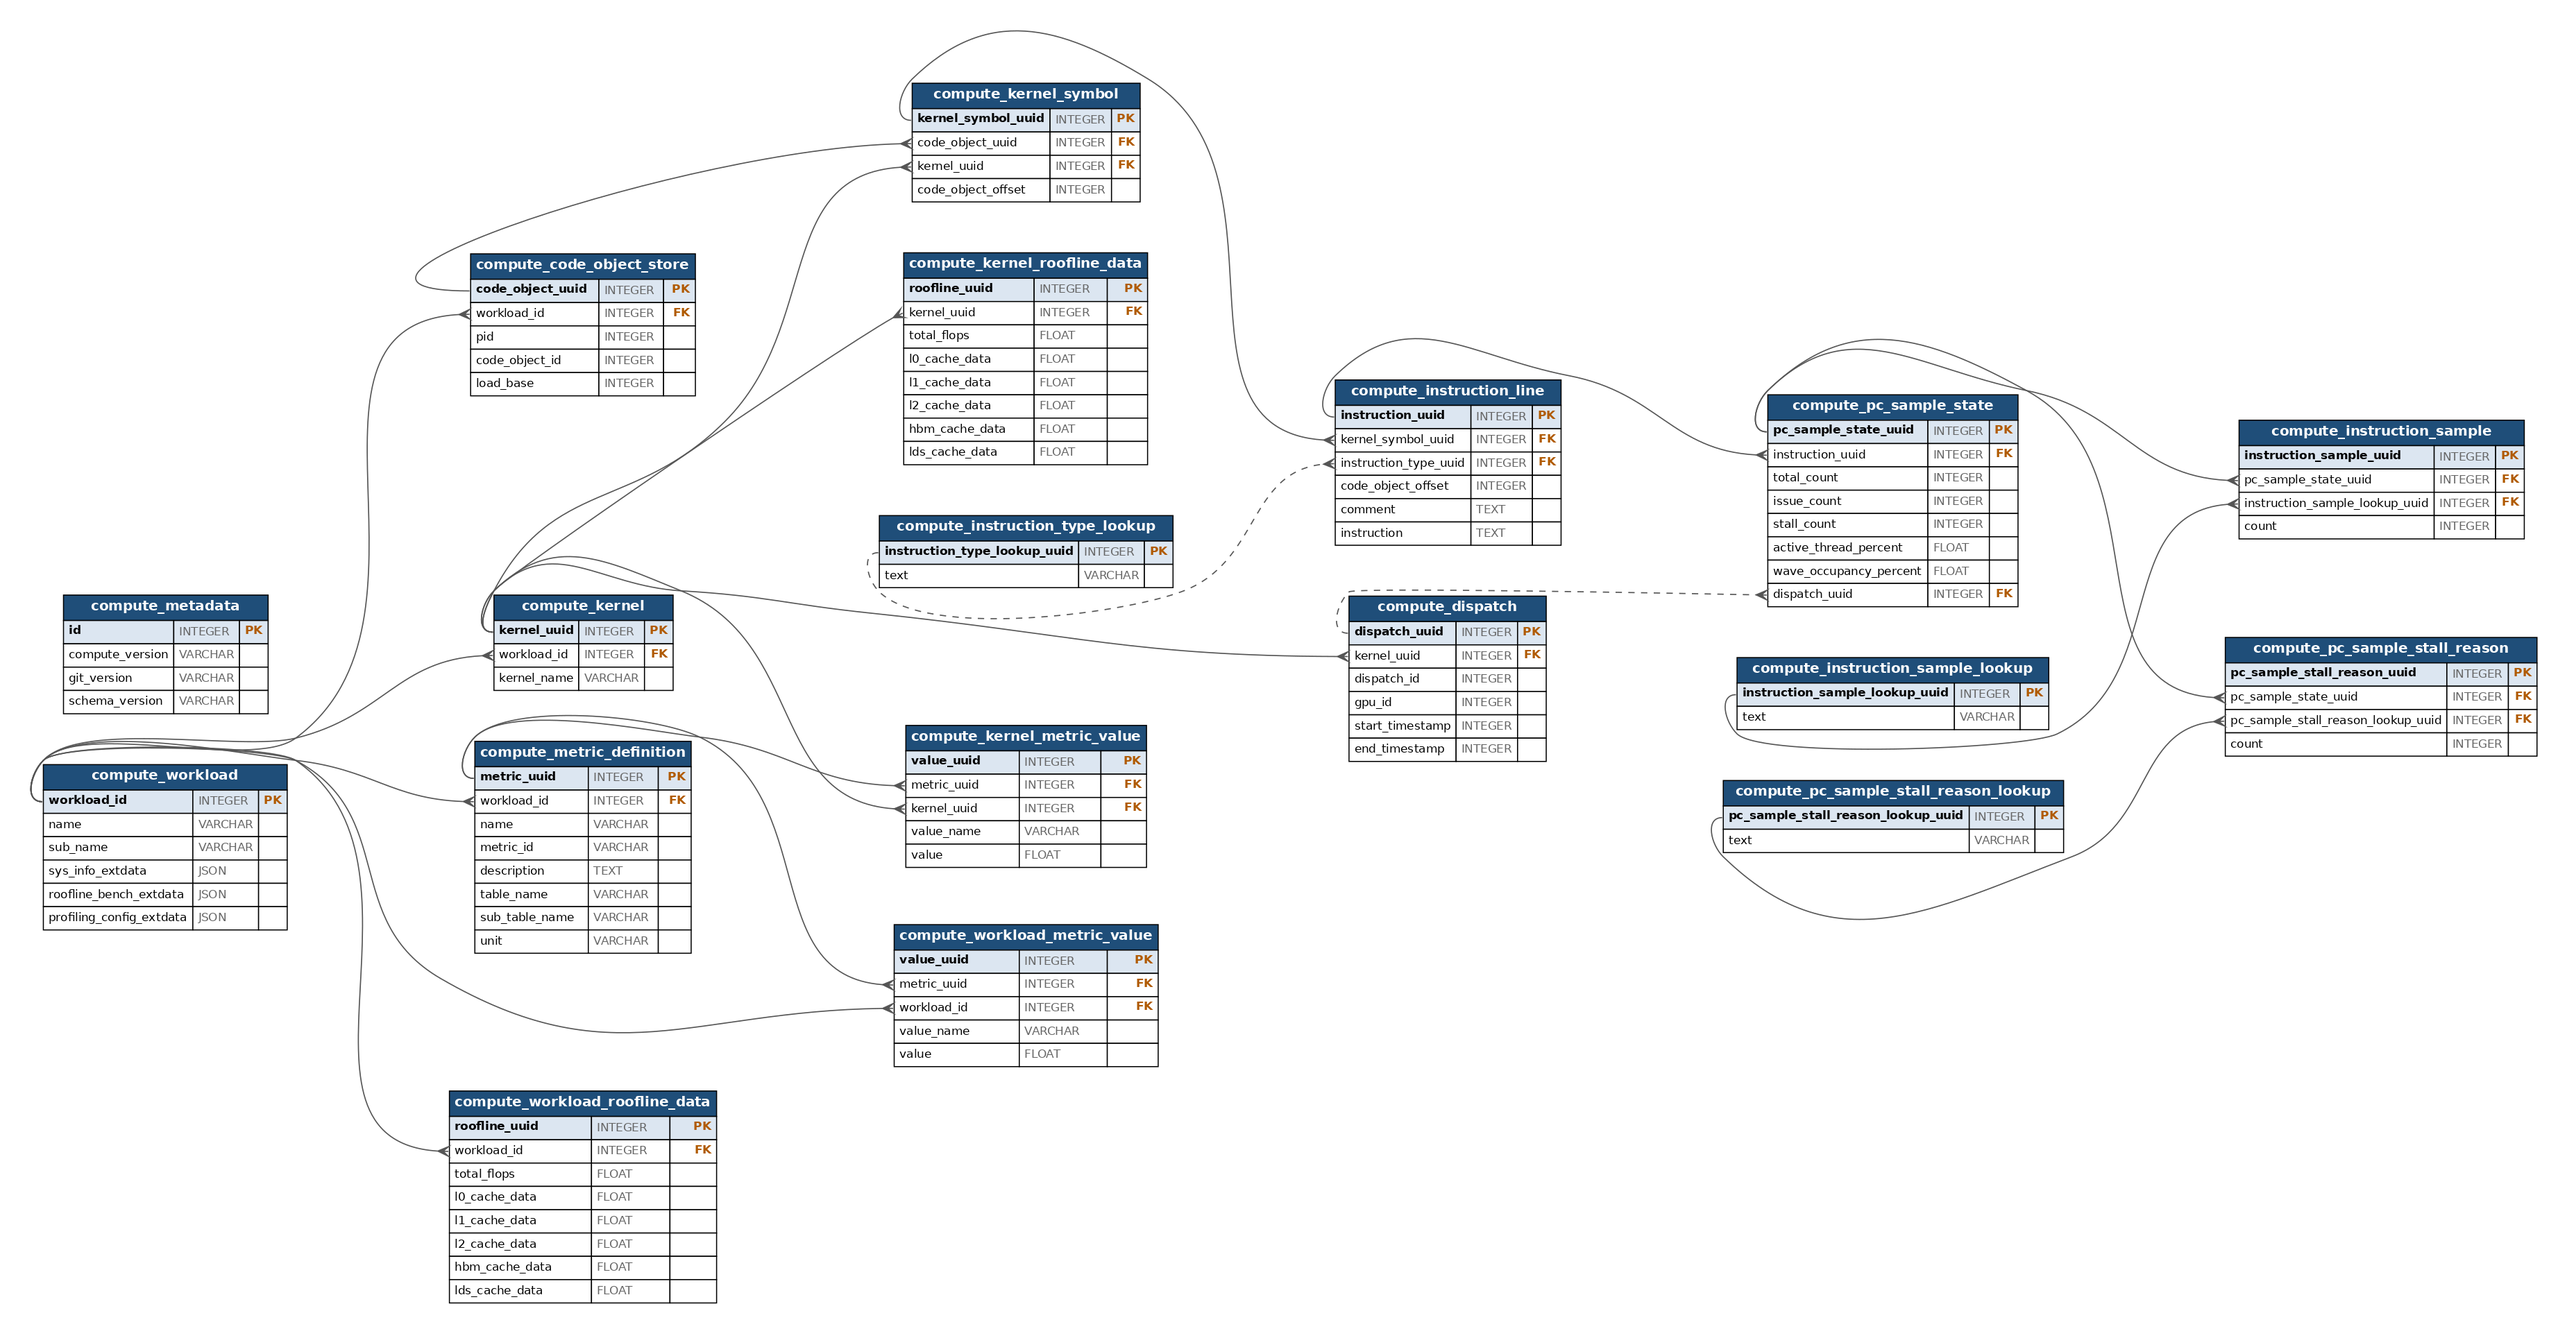
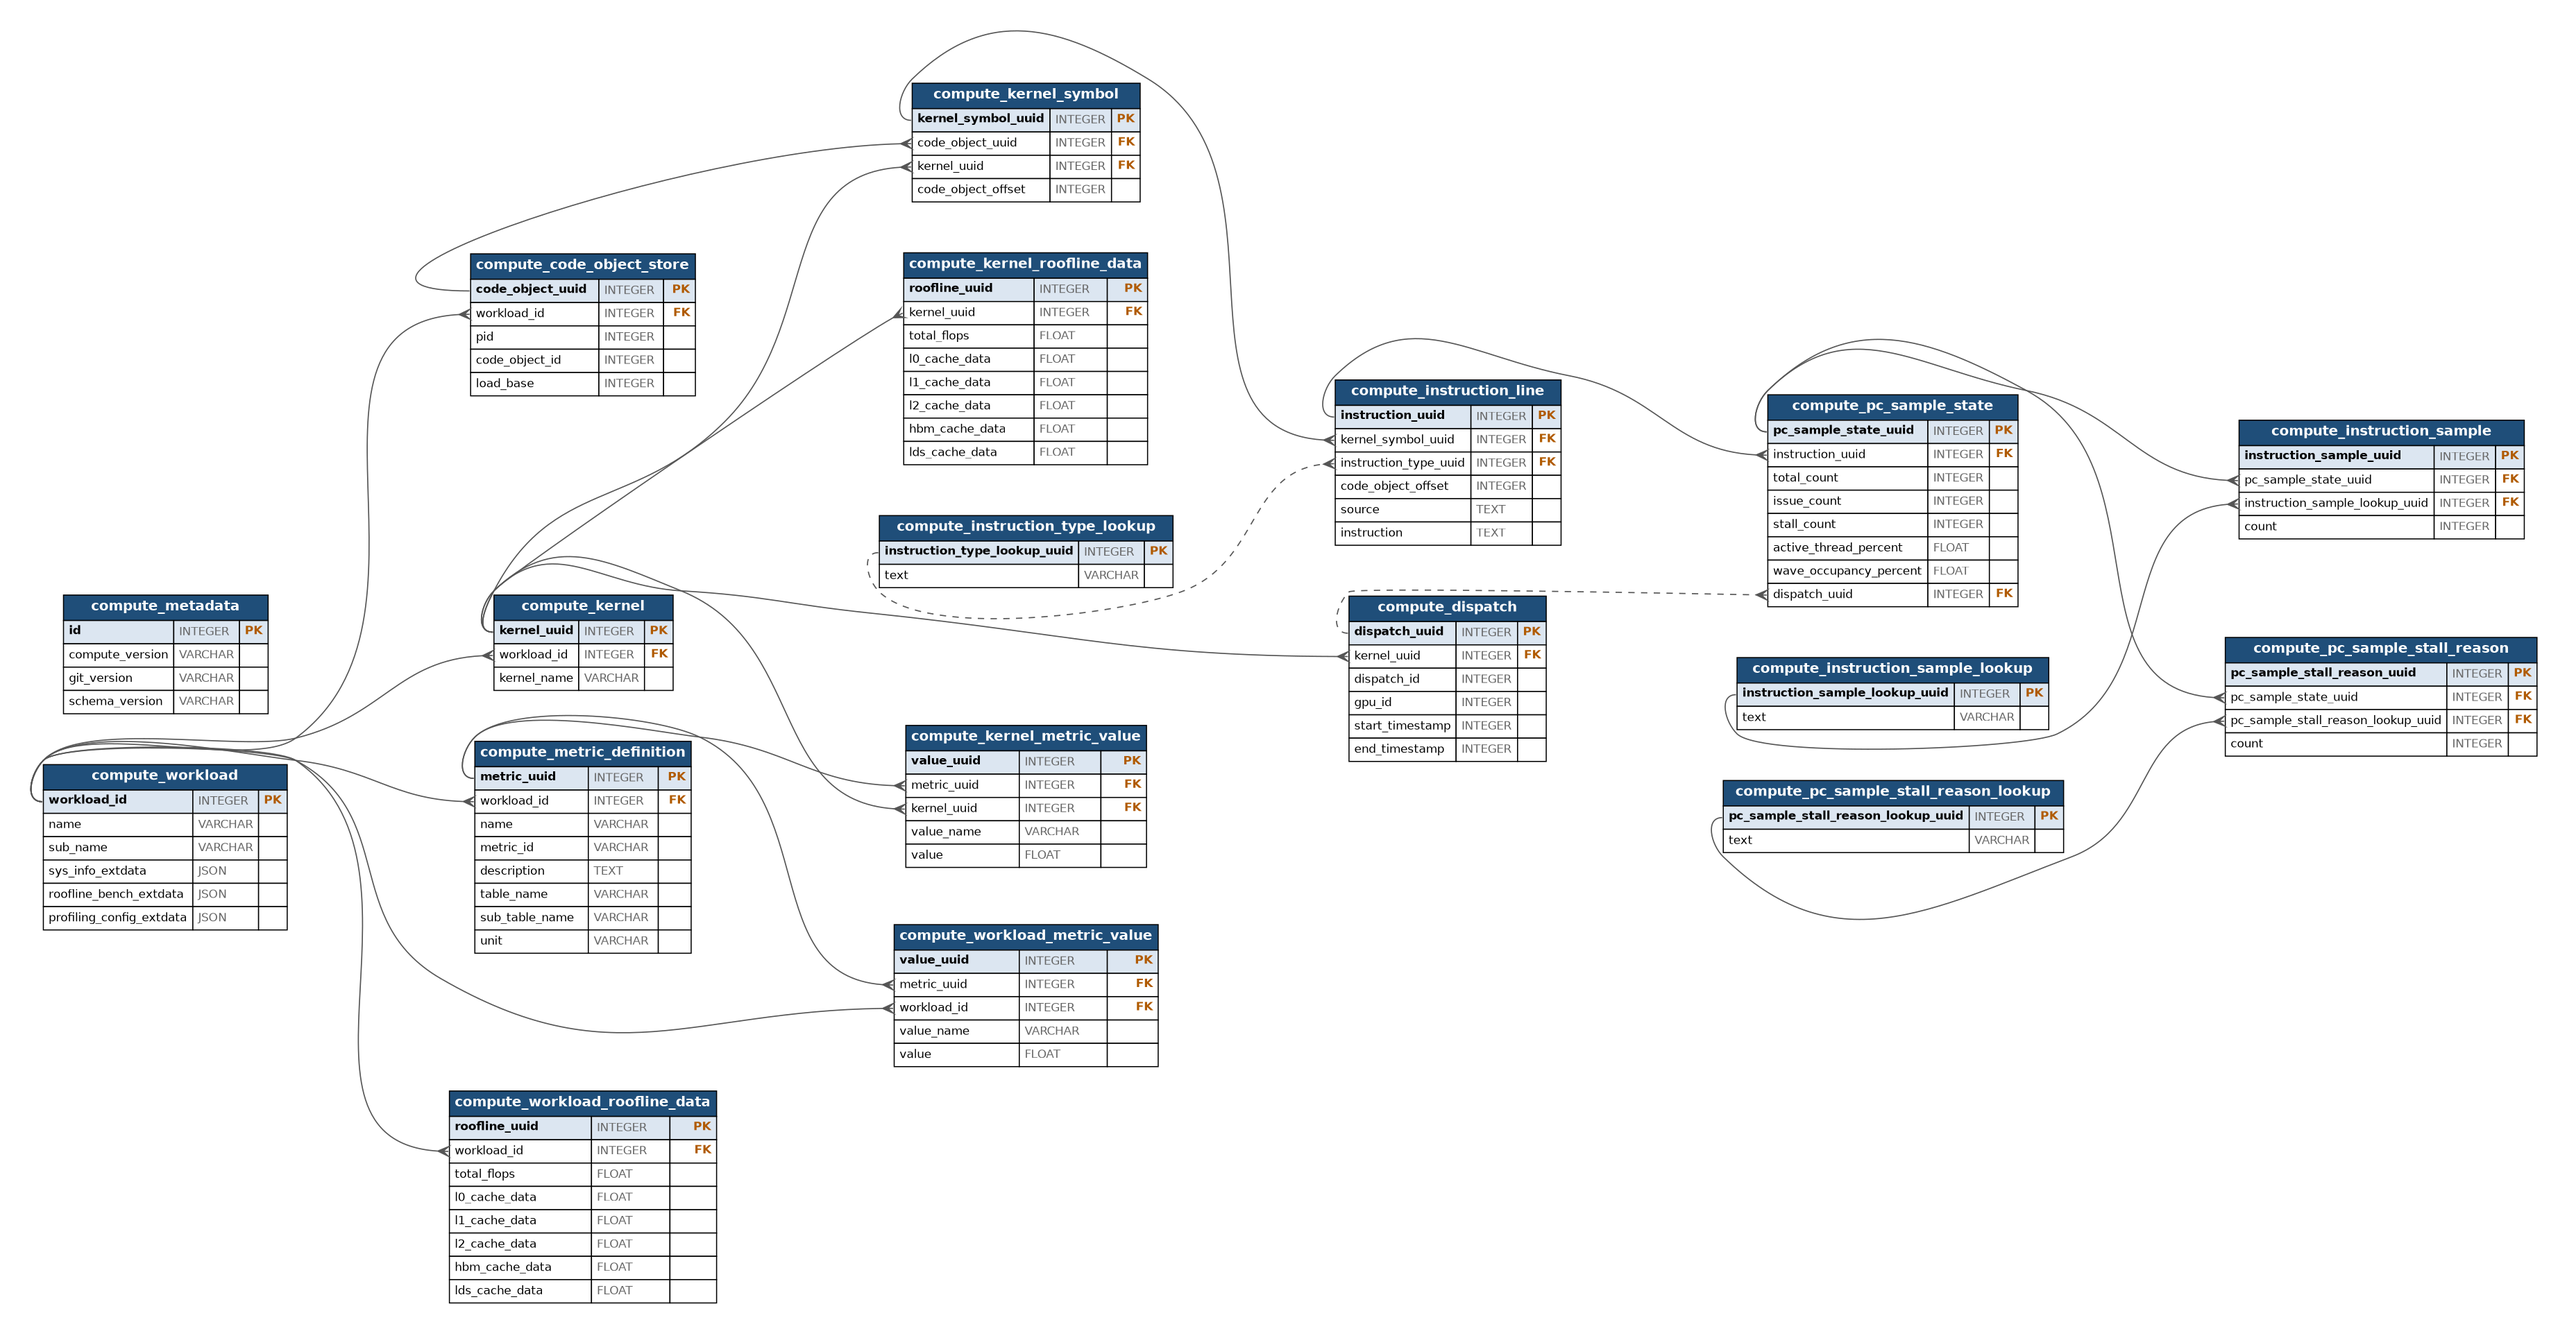
Rename PC sampling comment fields to source

diff --git a/projects/rocprofiler-compute/tests/test_analysis_db.py b/projects/rocprofiler-compute/tests/test_analysis_db.py
@@ -1016,6 +1016,17 @@ def test_add_pc_sampling_data_no_tool_data_is_noop(db_session):
     assert db_session.query(orm.InstructionLine).count() == 0
 
 
+def test_run_analysis_writes_schema_version_2_1_1(
+    db_session,
+    tmp_path: Path,
+) -> None:
+    analyzer = make_pc_sampling_only_database_analyzer(str(tmp_path), [])
+
+    run_analysis_with_materialized_views(analyzer)
+
+    assert db_session.query(orm.Metadata).one().schema_version == "2.1.1"
+
+
 def test_add_pc_sampling_data_populates_and_attributes_kernels(db_session):
     """Instruction lines use the workload kernels and transient store registry."""
     workload_path = "/fake/workload"
@@ -1184,7 +1195,7 @@ def test_run_analysis_scopes_pc_sampling_uuids_by_process(db_session):
     assert len({line.instruction_uuid for line in instruction_lines}) == 2
     assert len({line.kernel_symbol.code_object_uuid for line in instruction_lines}) == 2
     assert {
-        (line.code_object_offset, line.instruction, line.comment)
+        (line.code_object_offset, line.instruction, line.source)
         for line in instruction_lines
     } == {(0x10, "v_mov", "/s/shared.cpp:7")}
 
@@ -1249,7 +1260,7 @@ def test_run_analysis_materialized_views_keep_pc_sampling_origins(
     assert len({line.kernel_symbol.code_object_uuid for line in instruction_lines}) == 2
     assert {line.code_object_offset for line in instruction_lines} == {0x10}
     assert {line.instruction for line in instruction_lines} == {"v_mov"}
-    assert {line.comment for line in instruction_lines} == {"/s/shared.cpp:7"}
+    assert {line.source for line in instruction_lines} == {"/s/shared.cpp:7"}
 
     instruction_by_process_id = {
         line.kernel_symbol.code_object_store.pid: line for line in instruction_lines

diff --git a/projects/rocprofiler-compute/tests/test_analysis_orm.py b/projects/rocprofiler-compute/tests/test_analysis_orm.py
@@ -111,7 +111,7 @@ def add_pc_sampling_state(
     )
     instruction_line = InstructionLine(
         code_object_offset=offset,
-        comment=source,
+        source=source,
         instruction=instruction,
         kernel_symbol=KernelSymbol(code_object_store=code_object, kernel=kernel),
     )
@@ -233,13 +233,13 @@ def test_duplicate_instruction_identity_under_same_symbol_rejected(db_session):
     db_session.add_all([
         InstructionLine(
             code_object_offset=0x10,
-            comment="/s/a.cpp:1",
+            source="/s/a.cpp:1",
             instruction="v_mov",
             kernel_symbol=kernel_symbol,
         ),
         InstructionLine(
             code_object_offset=0x10,
-            comment="/s/a.cpp:1",
+            source="/s/a.cpp:1",
             instruction="v_mov",
             kernel_symbol=kernel_symbol,
         ),
@@ -376,13 +376,13 @@ def test_equal_identities_under_distinct_parent_chains_get_distinct_uuids(
     second_symbol = KernelSymbol(code_object_store=second_code_object, kernel=kernel)
     first_instruction = InstructionLine(
         code_object_offset=0x10,
-        comment="/s/a.cpp:1",
+        source="/s/a.cpp:1",
         instruction="v_mov",
         kernel_symbol=first_symbol,
     )
     second_instruction = InstructionLine(
         code_object_offset=0x10,
-        comment="/s/a.cpp:1",
+        source="/s/a.cpp:1",
         instruction="v_mov",
         kernel_symbol=second_symbol,
     )

diff --git a/projects/rocprofiler-compute/src/utils/analysis_orm.py b/projects/rocprofiler-compute/src/utils/analysis_orm.py
@@ -38,7 +38,7 @@ from sqlalchemy.sql import Select
 from utils.logger import console_debug, console_error, console_warning
 
 PREFIX = "compute_"
-SCHEMA_VERSION = "2.1.0"
+SCHEMA_VERSION = "2.1.1"
 
 
 Base = declarative_base()
@@ -237,7 +237,7 @@ class InstructionLine(Base):
         nullable=True,
     )
     code_object_offset = Column(Integer)
-    comment = Column(Text)
+    source = Column(Text)
     instruction = Column(Text)
 
     # Instruction line belongs to one kernel symbol
@@ -711,7 +711,7 @@ class Database:
                 Kernel.kernel_name,
                 InstructionLine.code_object_offset.label("offset"),
                 InstructionLine.instruction,
-                InstructionLine.comment.label("source"),
+                InstructionLine.source.label("source"),
                 PCSampleState.total_count.label("count"),
                 PCSampleState.issue_count.label("count_issue"),
                 PCSampleState.stall_count.label("count_stall"),

diff --git a/projects/rocprofiler-compute/src/rocprof_compute_analyze/analysis_db.py b/projects/rocprofiler-compute/src/rocprof_compute_analyze/analysis_db.py
@@ -475,7 +475,7 @@ class db_analysis(OmniAnalyze_Base):
 
         instruction_line = orm.InstructionLine(
             code_object_offset=line.code_object_offset,
-            comment=line.comment,
+            source=line.source,
             instruction=line.instruction,
             kernel_symbol=db_analysis._get_or_create_kernel_symbol(
                 code_object_store, kernel, kernel_symbols
@@ -608,7 +608,7 @@ class db_analysis(OmniAnalyze_Base):
             Database.get_session().add(
                 orm.InstructionLine(
                     code_object_offset=code_object_offset,
-                    comment=instruction.comment,
+                    source=instruction.source,
                     instruction=instruction.instruction,
                     kernel_symbol=kernel_symbol,
                 )

diff --git a/projects/rocprofiler-compute/src/pc_sampling/pc_sampling_analysis.py b/projects/rocprofiler-compute/src/pc_sampling/pc_sampling_analysis.py
@@ -50,7 +50,7 @@ class InstructionLineRecord(NamedTuple):
     code_object_offset: int
     kernel_name: Optional[str]
     instruction: Optional[str]
-    comment: str
+    source: str
     total_count: int
     issue_count: Optional[int]
     stall_count: Optional[int]
@@ -238,7 +238,7 @@ def _to_instruction_line_record(row: Any) -> InstructionLineRecord:  # noqa: ANN
         code_object_offset=int(row.code_object_offset),
         kernel_name=row.kernel_name,
         instruction=row.instruction,
-        comment=row.source_line,
+        source=row.source_line,
         total_count=int(row.count),
         issue_count=None if pd.isna(row.count_issued) else int(row.count_issued),
         stall_count=None if pd.isna(row.count_stalled) else int(row.count_stalled),

diff --git a/projects/rocprofiler-compute/tests/test_code_object_analysis.py b/projects/rocprofiler-compute/tests/test_code_object_analysis.py
@@ -83,7 +83,7 @@ def test_parse_captures_symbol_virtual_address():
     assert parse_code_object_info(data)[0].symbols[0].virtual_address == 0x2040
 
 
-def test_parse_captures_virtual_address_instruction_and_comment():
+def test_parse_captures_virtual_address_instruction_and_source():
     data = make_code_obj_info([
         make_code_object(
             7,
@@ -101,7 +101,7 @@ def test_parse_captures_virtual_address_instruction_and_comment():
     assert disassemblies[0].symbols[0].instructions[0] == CodeObjectInstruction(
         virtual_address=0x2040,
         instruction="v_mov_b32",
-        comment="src.cpp:5",
+        source="src.cpp:5",
     )
 
 

diff --git a/projects/rocprofiler-compute/src/pc_sampling/code_object_analysis.py b/projects/rocprofiler-compute/src/pc_sampling/code_object_analysis.py
@@ -22,7 +22,7 @@ class CodeObjectInstruction(NamedTuple):
 
     virtual_address: int
     instruction: Optional[str]
-    comment: Optional[str]
+    source: Optional[str]
 
 
 class CodeObjectSymbol(NamedTuple):
@@ -103,5 +103,5 @@ def _to_instruction(instruction: dict[str, Any]) -> CodeObjectInstruction:
     return CodeObjectInstruction(
         virtual_address=instruction["virtual_address"],
         instruction=instruction.get("name"),
-        comment=instruction.get("comment"),
+        source=instruction.get("comment"),
     )

diff --git a/projects/rocprofiler-compute/tests/test_pc_sampling_analysis.py b/projects/rocprofiler-compute/tests/test_pc_sampling_analysis.py
@@ -584,7 +584,7 @@ def test_load_aggregated_pc_sampling_happy_path() -> None:
     line = load_aggregated_pc_sampling(tool_data)[0].instruction_lines[0]
     assert line.total_count == 1
     assert line.instruction == "v_mov"
-    assert line.comment == "/s/a.cpp:1"
+    assert line.source == "/s/a.cpp:1"
     assert line.kernel_name == "vecCopy"
 
 
